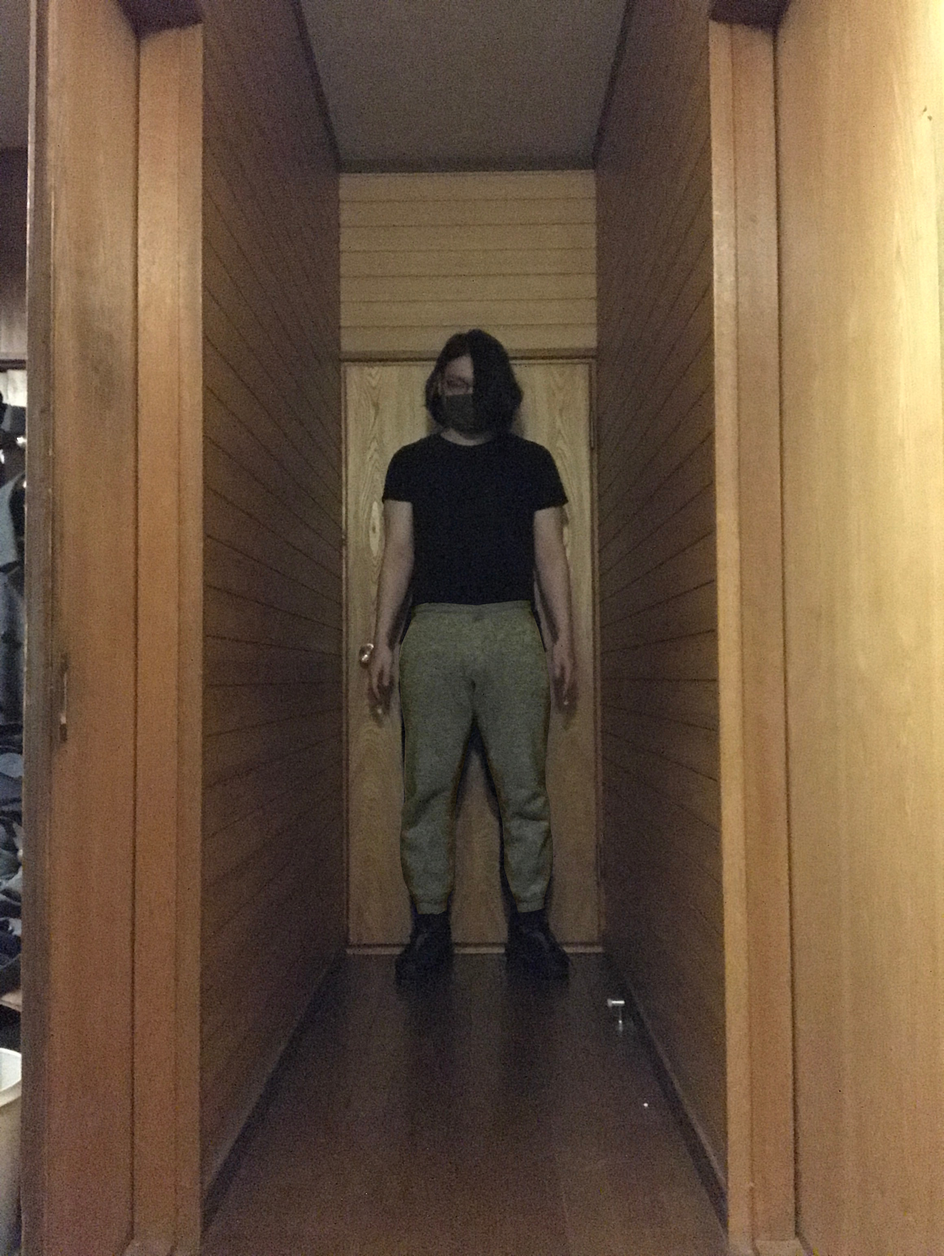
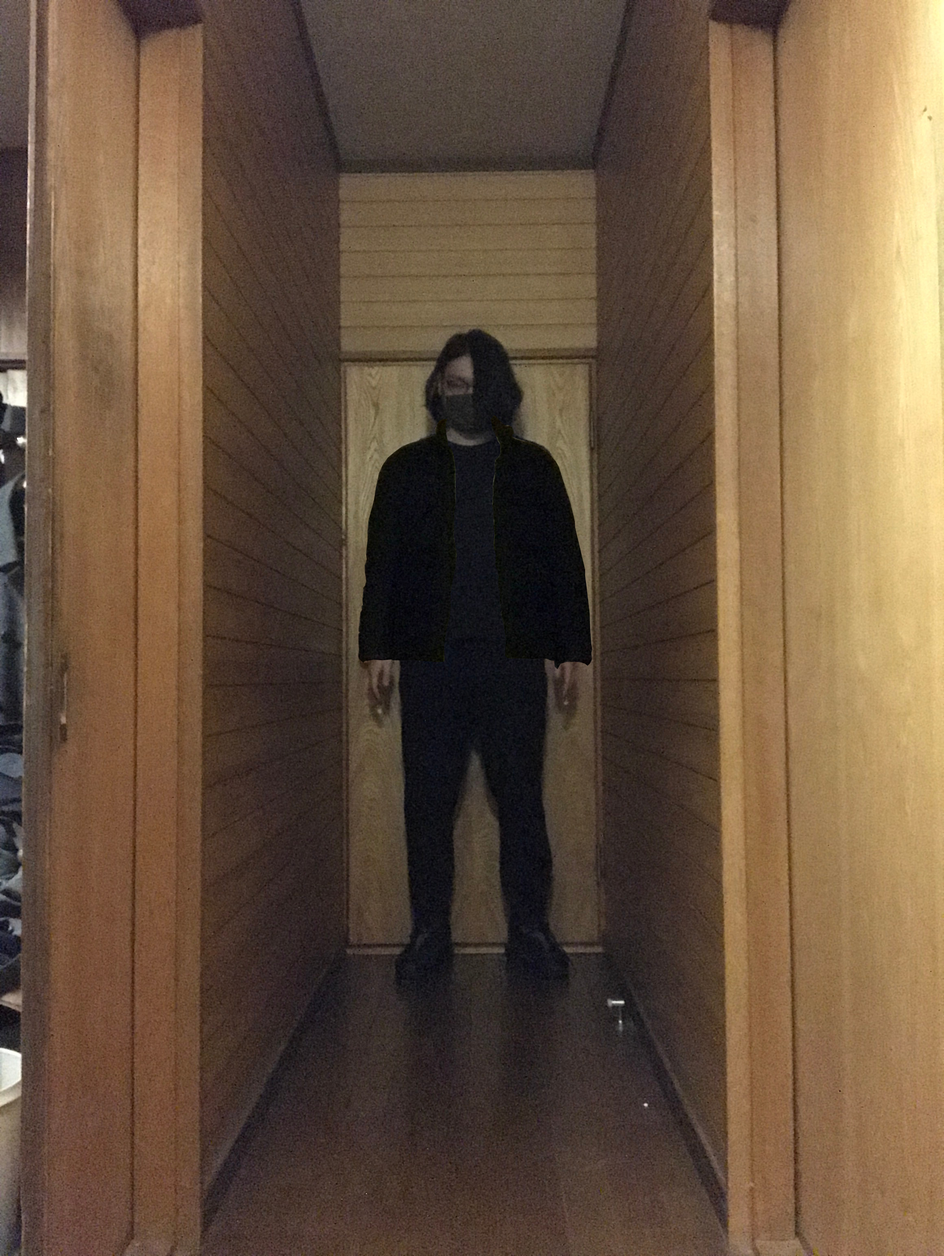
組み込み完了

Changed region(s): [[0.3724, 0.342, 0.6517, 0.7461]]

diff --git a/app/controllers/virtual_fittings_controller.rb b/app/controllers/virtual_fittings_controller.rb
@@ -3,9 +3,11 @@ class VirtualFittingsController < ApplicationController
     if current_user.images.empty?
       redirect_to root_path
     else
-      @item = Item.find(params[:item_id])
+      item = Item.find(params[:item_id])
+      admin_item = AdminItem.find(item.admin_item_id.to_s)
+
       user_image = MiniMagick::Image.open(rails_blob_url(current_user.images[0]))
-      item_image = MiniMagick::Image.open(rails_blob_url(@item.images[4])) 
+      item_image = MiniMagick::Image.open(rails_blob_url(admin_item.vrf_images[0])) 
 
       result = user_image.composite(item_image) do |config| 
         config.compose 'Over'

diff --git a/app/models/admin_item.rb b/app/models/admin_item.rb
@@ -3,6 +3,7 @@ class AdminItem < ApplicationRecord
   #belongs_to :item
   #belongs_to :user
   has_many_attached :images
+  has_many_attached :vrf_images
   has_one :buyer_order
 
   
@@ -25,5 +26,6 @@ class AdminItem < ApplicationRecord
   validates :price, numericality: { only_integer: true } 
 
   validates :images, presence: true
-  validates :images, length: { minimum: 1, maximum: 5 }
+  validates :images, length: { minimum: 1, maximum: 6 }
+  validates :vrf_images, length: { minimum: 1, maximum: 6 }
 end

diff --git a/app/controllers/admin_items_controller.rb b/app/controllers/admin_items_controller.rb
@@ -22,7 +22,7 @@ class AdminItemsController < ApplicationController
 
   private
   def admin_item_params
-    params.require(:admin_item).permit(:admin_item_name, :admin_description, :category_id, :proper_price, :price, {images: []}).merge(admin_id: current_admin.id)
+    params.require(:admin_item).permit(:admin_item_name, :admin_description, :category_id, :proper_price, :price, {vrf_images: []}, {images: []}).merge(admin_id: current_admin.id)
   end
 
   def customer_user_cant_do
